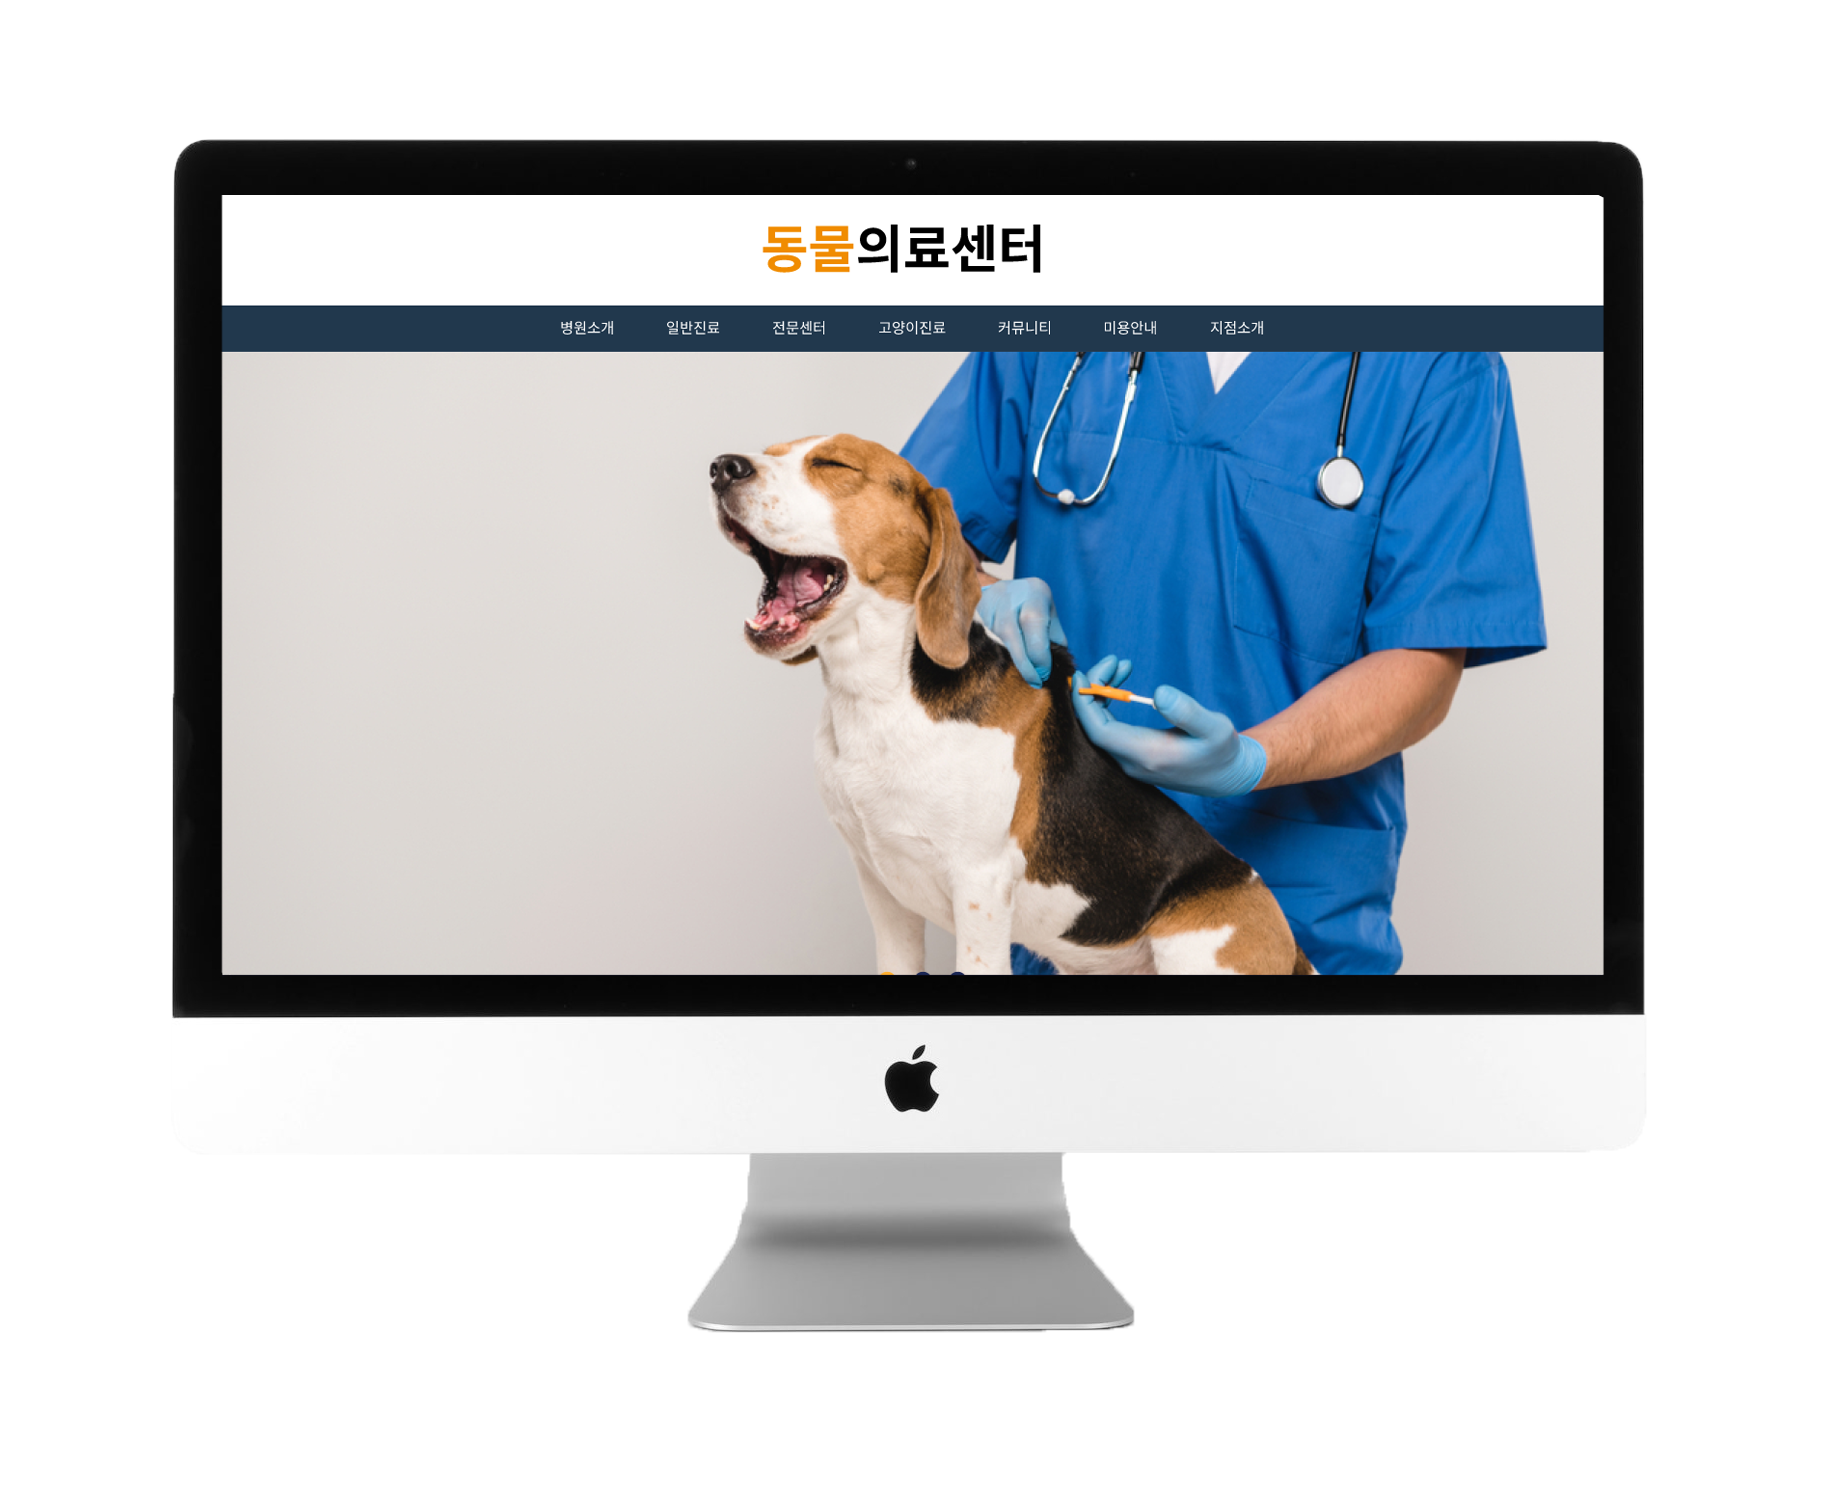
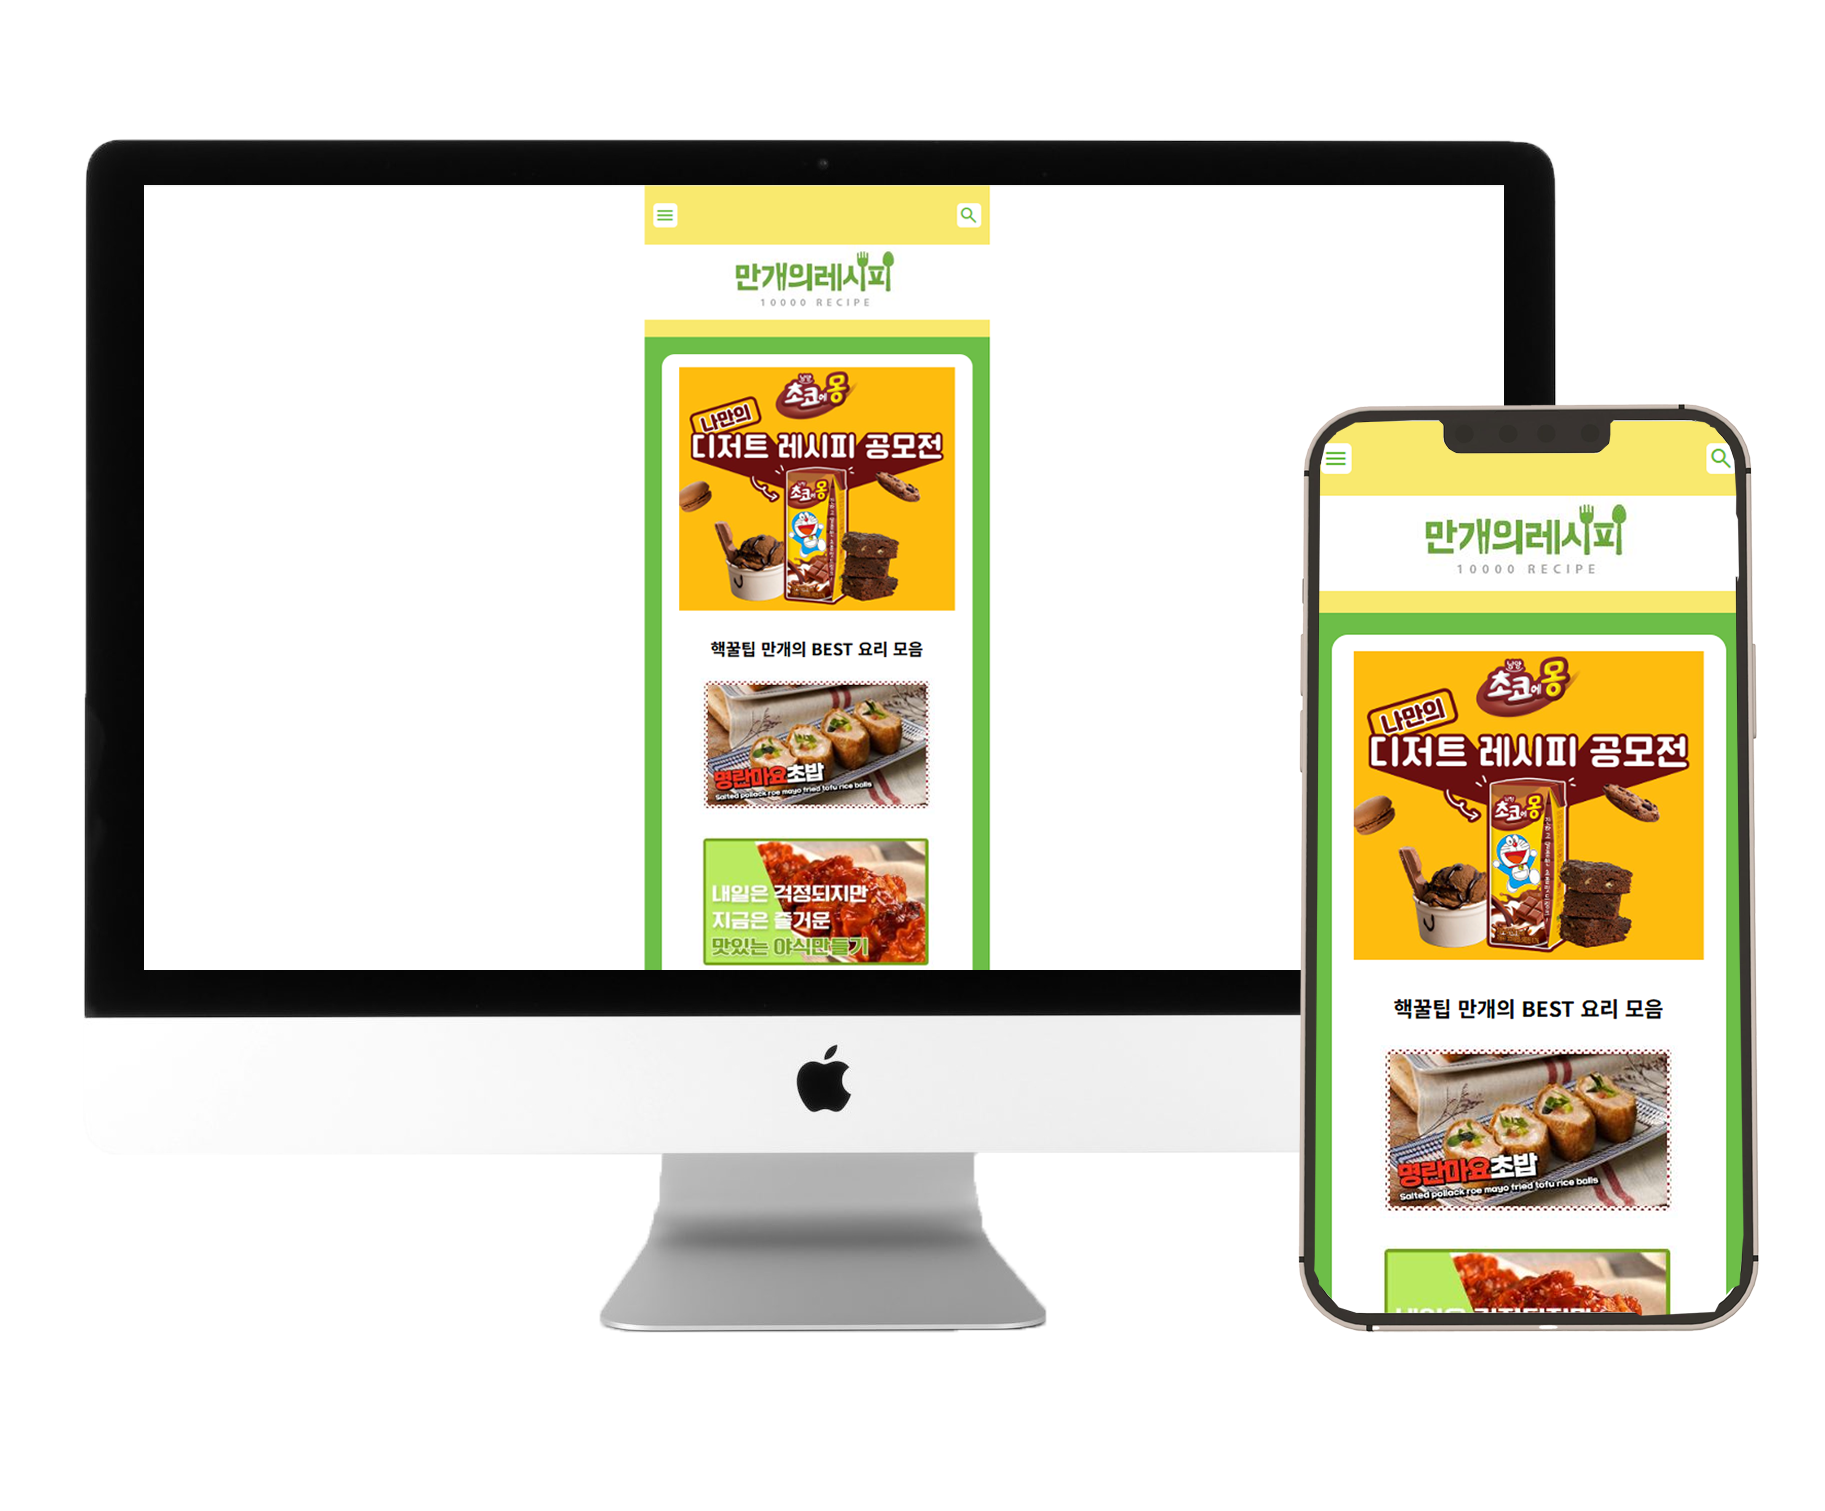
Add files via upload

diff --git a/index.html b/index.html
@@ -136,7 +136,7 @@
                 </nav>
             </div>
             <div class="right">
-                <img src="images/portfolio-7.png" alt="동물의료센터 피그마 목업이미지">
+                <img src="images/portfolio-1.png" alt="동물의료센터 피그마 목업이미지">
             </div>
         </section>
         <section id="port2">
@@ -170,7 +170,7 @@
                 </nav>
             </div>
             <div class="right">
-                <img src="images/portfolio-5.png" alt="서울사진학원 리뉴얼 목업이미지">
+                <img src="images/portfolio-2.png" alt="서울사진학원 리뉴얼 목업이미지">
             </div>
         </section>
         <section id="port3">
@@ -204,7 +204,7 @@
                 </nav>
             </div>
             <div class="right">
-                <img src="images/portfolio-4.png" alt="놀란 감독의 영화들 목업이미지">
+                <img src="images/portfolio-3.png" alt="놀란 감독의 영화들 목업이미지">
             </div>
         </section>
         <section id="port4">
@@ -238,7 +238,7 @@
                 </nav>
             </div>
             <div class="right">
-                <img src="images/portfolio-8.png" alt="만개의 레시피 모바일 웹사이트 목업이미지">
+                <img src="images/portfolio-4.png" alt="만개의 레시피 모바일 웹사이트 목업이미지">
             </div>
         </section>
         <section id="port5">
@@ -267,12 +267,12 @@
                     </li>
                 </ul>
                 <nav>
-                    <a href="https://dadamstudy.github.io/portfolio/" target="_blank" title="클릭 시 포트폴리오 웹페이지가 새창으로 열립니다.">웹사이트 바로가기</a>
+                    <a href="https://dadamstudy.github.io/portfolio/" target="_blank" title="클릭 시 포트폴리오 웹사이트가 새창으로 열립니다.">웹사이트 바로가기</a>
                     <a href="https://dadamstudy.github.io/portfolio/" target="_blank" class="mobile-1" title="클릭 시 포트폴리오 모바일웹으로 이동합니다.">모바일웹 바로가기</a>
                 </nav>
             </div>
             <div class="right">
-                <img src="images/portfolio-8.png" alt="만개의 레시피 모바일 웹사이트 목업이미지">
+                <img src="images/portfolio-5.png" alt="신다해의 포트폴리오 목업이미지">
             </div>
         </section>
     </div>
